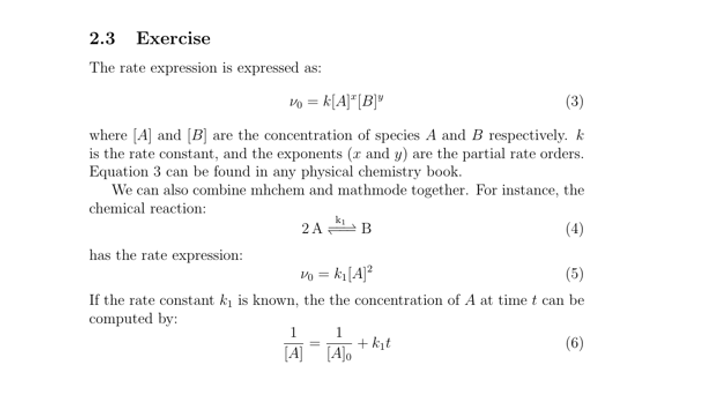
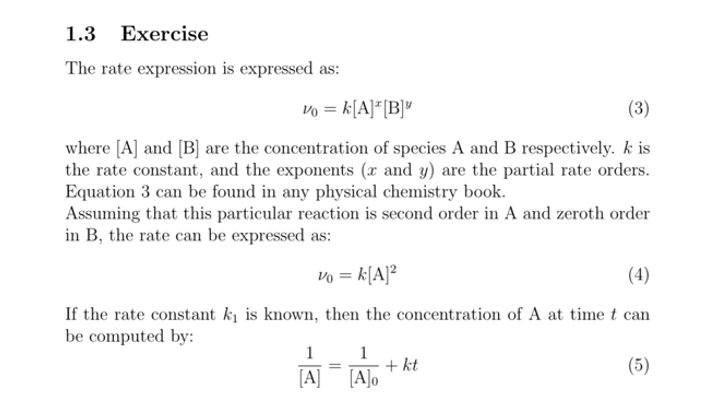
updated and moved math section

diff --git a/sections/math.md b/sections/math.md
@@ -2,6 +2,14 @@
 
 LaTeX makes writing chemical equations seamlessly. There are two ways you will likely use math mode: *inline* math mode, which allows you to write equations as a part of a paragraph, and *display* math mode, which is used to write equations that are not part of a paragraph.
 
+## Learning Objectives
+
+1. Difference between inline and display math mode
+
+2. Start and write in a particular math mode
+
+3. Practice using both
+
 ## Inline Math Mode
 
 There are three ways to start up inline math mode:
@@ -12,9 +20,7 @@ There are three ways to start up inline math mode:
 
 3. `\begin{math} ... \end{math}`
 
-My preference for calling inline math mode is to use `$...$` since I'm not using the `$` sign often in text, and requires less user input. 
-
-Lets try some examples of inline math mode.
+My preference for calling inline math mode is to use `$...$` since I'm not using the `$` sign often in text, and requires less user input. Lets try some examples of inline math mode.
 
 ```
 \section{Math Mode}
@@ -62,14 +68,12 @@ We can refer to equations in display mode later by assigning it a label and the 
 The `\label{}` command is very powerful as it allows you to refer to the equations (as we will see figures and tables) without worring about the order which they appear.
 
 ## Exercise
-**Try reproducing the the following bellow in you LaTeX Document. You may find this external sheet helpful when looking up [math symbols](https://www.overleaf.com/learn/latex/Mathematical_expressions#Reference_guide), or this one which is a more comprehensive [list of symbols](https://www.caam.rice.edu/~heinken/latex/symbols.pdf).**
+**Try reproducing the the following bellow in you LaTeX Document. You may find this external sheet helpful when looking up [math symbols](https://www.overleaf.com/learn/latex/Mathematical_expressions#Reference_guide), or this one which is a more comprehensive [list of symbols](https://www.caam.rice.edu/~heinken/latex/symbols.pdf). The solution can be found [here](soln3.md)**
 
 ![math](/images/Math-Eq.png)
 
-The solution can be found [here](soln3.md).
-
 [Creating Tables >>>](tables.md)
 
-[<<< Back](chem-form.md)
+[<<< Back](preamble-body.md)
 
 [<<< Home](../README.md)

diff --git a/sections/soln3.md b/sections/soln3.md
@@ -8,19 +8,15 @@ The rate expression is expressed as:
     \nu_{0} = k [\text{A}]^{x} [\text{B}]^{y}
     \label{eq:rate}
 \end{equation}
-where [A] and [B] are the concentration of species $A$ and $B$ respectively. $k$ is the rate constant, and the exponents ($x$ and $y$) are the partial rate orders. Equation \ref{eq:rate} can be found in any physical chemistry book.
-
-We can also combine mhchem and math mode together. For instance, the chemical reaction:
+where [A] and [B] are the concentration of species A and B respectively. $k$ is the rate constant, and the exponents ($x$ and $y$) are the partial rate orders. Equation \ref{eq:rate} can be found in any physical chemistry book.
+\\
+Assuming that this particular reaction is second order in A and zeroth order in B, the rate can be expressed as:
 \begin{equation}
-    \ce{2A <=>[{k_{1}}] B}
+    \nu_{0} = k[\ce{A}]^{2}
 \end{equation}
-\noindent has the rate expression:
+\noindent If the rate constant $k_{1}$ is known, then the concentration of \ce{A} at time $t$ can be computed by:
 \begin{equation}
-    \nu_{0} = k_{1}[\ce{A}]^{2}
-\end{equation}
-\noindent If the rate constant $k_{1}$ is known, the the concentration of \ce{A} at time $t$ can be computed by:
-\begin{equation}
-    \frac{1}{[\ce{A}]} = \frac{1}{[\ce{A}]_{0}} + k_{1}t
+    \frac{1}{[\ce{A}]} = \frac{1}{[\ce{A}]_{0}} + kt
 \end{equation}
 ```
 

diff --git a/sections/soln1.md b/sections/soln1.md
@@ -12,10 +12,9 @@
 
 %%% User defined Packages %%%
 
-\usepackage[english]{babel}                    % Optional language setting
 \usepackage{amsmath}                           % Includes useful math symbols
 \usepackage{tabularx}                          % Allows us to add tables
-\usepackage{mhchem}                            % Writing chemical reactions, molecules, etc
+\usepackage[version=4]{mhchem}                 % Writing chemical reactions, molecules, etc
 
 \usepackage{graphicx}                          % This package will allow use to make and refer to figures
 \graphicspath{ {./images/} }                   % that exist in the images folder

diff --git a/sections/preamble-body.md b/sections/preamble-body.md
@@ -45,7 +45,7 @@ Following these two commands, we have three lines that define some document spec
 
 \usepackage{amsmath}                           % Includes useful math symbols
 \usepackage{tabularx}                          % Allows us to add tables
-\usepackage[version=4]{mhchem}                            % Writing chemical reactions, molecules, etc
+\usepackage[version=4]{mhchem}                 % Writing chemical reactions, molecules, etc
 
 
 %%% Document specific things %%%
